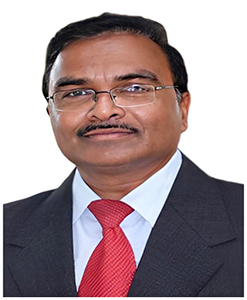
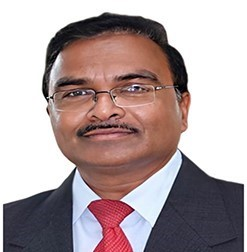
changed team images

diff --git a/patronsadvisors.html b/patronsadvisors.html
@@ -133,91 +133,56 @@
 
 
 
+<section class="bg-gradient-to-r from-blue-200 to-pink-300 max-w-screen-xl mx-auto py-8 px-4 md:px-8 lg:px-16">
+    <h2 class="text-center text-3xl md:text-4xl lg:text-5xl font-bold mb-8">Patrons & Advisors</h2>
 
-
-<!-- ====== Team Section Start -->
-<section     class="bg-gradient-to-r from-blue-200 to-pink-300 max-w-screen-xl mx-auto py-8 px-4 md:px-8 lg:px-16"
->
-<h2 class="text-center text-3xl md:text-4xl lg:text-5xl font-bold mb-8">Patrons & Advisors </h2>
-
-<div class="container mx-auto">
-
-
- 
-
-          <div class="-mx-4 flex flex-wrap justify-center">
-            <div class="w-full px-4 md:w-1/2 xl:w-1/4">
-                <div class="mx-auto mb-10 w-full max-w-[370px]">
-                    <div class="relative overflow-hidden rounded-lg">
-                        <img src="./images/avs prasad.jpg" alt="image" class="w-full" />
-                        
-                    </div>
-                    <div class="text-center mt-3">
-                        <h2 class="text-dark dark:text-white text-base font-semibold">Dr. A.V.S. Prasad
-
-
-
-                        </h2>
-                        <p class="text-body-color dark:text-dark-6 text-xs">Pro Vice-Chancellor, KLEF   </p>
-                    </div>
-
-                </div>
-            </div>
-            <div class="w-full px-4 md:w-1/2 xl:w-1/4">
-                <div class="mx-auto mb-10 w-full max-w-[370px]">
-                    <div class="relative overflow-hidden rounded-lg">
-                        <img src="./images/venkataram.jpg" alt="image" class="w-full" />
-                       
-                    </div>
-                    <div class="text-center mt-3">
-                        <h3 class="text-dark dark:text-white text-base font-semibold">Dr. N. Venkatram
-
-
-
-                        </h3>
-                        <p class="text-body-color dark:text-dark-6 text-xs"> Pro Vice-Chancellor, KLEF  </p>
-                    </div>
-                </div>
-            </div>
-        </div>
+    <div class="container mx-auto">
         <div class="-mx-4 flex flex-wrap justify-center">
             <div class="w-full px-4 md:w-1/2 xl:w-1/4">
                 <div class="mx-auto mb-10 w-full max-w-[370px]">
                     <div class="relative overflow-hidden rounded-lg">
-                        <img src="./images/subba rao.jpg" alt="image" class="w-full" />
-                        
+                        <img src="./images/avs prasad.jpg" alt="image" class="w-full h-auto" style="width: 100%; height: auto;" />
                     </div>
                     <div class="text-center mt-3">
-                        <h2 class="text-dark dark:text-white text-base font-semibold">Dr. K. Subba Rao
-
-
-
-                        </h2>
-                        <p class="text-body-color dark:text-dark-6 text-xs">Registrar, KLEF </p>
+                        <h2 class="text-dark dark:text-white text-base font-semibold">Dr. A.V.S. Prasad</h2>
+                        <p class="text-body-color dark:text-dark-6 text-xs">Pro Vice-Chancellor, KLEF</p>
                     </div>
-
                 </div>
             </div>
-                    <div class="w-full px-4 md:w-1/2 xl:w-1/4">
+            <div class="w-full px-4 md:w-1/2 xl:w-1/4">
                 <div class="mx-auto mb-10 w-full max-w-[370px]">
                     <div class="relative overflow-hidden rounded-lg">
-                        <img src="./images/Jagadeesh.jpeg" alt="image" class="w-full" />
-                       
+                        <img src="./images/venkataram.jpg" alt="image" class="w-full h-auto" style="width: 100%; height: auto;" />
                     </div>
                     <div class="text-center mt-3">
-                        <h3 class="text-dark dark:text-white text-base font-semibold">Dr. A. Jagadeesh,  
-
-
-
-
-
-                        </h3>
-                        <p class="text-body-color dark:text-dark-6 text-xs">CCO & Director–FED,KLEF</p>
+                        <h3 class="text-dark dark:text-white text-base font-semibold">Dr. N. Venkatram</h3>
+                        <p class="text-body-color dark:text-dark-6 text-xs">Pro Vice-Chancellor, KLEF</p>
                     </div>
                 </div>
             </div>
-        </div>
-                
+            <div class="w-full px-4 md:w-1/2 xl:w-1/4">
+                <div class="mx-auto mb-10 w-full max-w-[370px]">
+                    <div class="relative overflow-hidden rounded-lg">
+                        <img src="./images/subba rao.jpg" alt="image" class="w-full h-auto" style="width: 100%; height: auto;" />
+                    </div>
+                    <div class="text-center mt-3">              <h2 class="text-dark dark:text-white text-base font-semibold">Dr. K. Subba Rao</h2>
+                        <p class="text-body-color dark:text-dark-6 text-xs">Registrar, KLEF</p>
+                    </div>
+                </div>
+            </div>
+            <div class="w-full px-4 md:w-1/2 xl:w-1/4">
+                <div class="mx-auto mb-10 w-full max-w-[370px]">
+                    <div class="relative overflow-hidden rounded-lg">
+                        <img src="./images/Jagadeesh.jpeg" alt="image" class="w-full h-auto" style="width: 100%; height: auto;" />
+                    </div>
+                    <div class="text-center mt-3">            
+                        <h3 class="text-dark dark:text-white text-base font-semibold">Dr. A. Jagadeesh</h3>
+                        <p class="text-body-color dark:text-dark-6 text-xs">CCO & Director–FED, KLEF</p>
+                    </div>
+                </div>
+            </div>
+          
+           
     </div>
  </section>
  <!-- ====== Team Section End -->    <!-- ====== Team Section End -->

diff --git a/conveners.html b/conveners.html
@@ -139,6 +139,103 @@
 <section     class="bg-gradient-to-r from-blue-200 to-pink-300 max-w-screen-xl mx-auto py-8 px-4 md:px-8 lg:px-16"
 >
 <h2 class="text-center text-3xl md:text-4xl lg:text-5xl font-bold mb-8">Conveners</h2>
+
+<!-- ====== Team Section Start -->
+<section     class="bg-gradient-to-r from-blue-200 to-pink-300 max-w-screen-xl mx-auto py-8 px-4 md:px-8 lg:px-16"
+>
+    <div class="container mx-auto">
+
+       
+
+       <div class="-mx-4 flex flex-wrap justify-center">
+        <div class="w-full px-4 md:w-1/2 xl:w-1/4">
+            <div class="mx-auto mb-10 w-full max-w-[370px]">
+               <div class="relative overflow-hidden rounded-lg">
+                  <img src="./images/drruthramya.jpg" alt="image" class="w-full" />
+                 
+               </div>
+               <div class="text-center mt-3">
+                <h3 class="text-dark dark:text-white text-base font-semibold">Dr K.Ruth Ramya</h3>
+                <p class="text-body-color dark:text-dark-6 text-xs">Conveners</p>
+            </div>
+
+            </div>
+         </div>
+       </div>   </div>
+          </div>
+
+          <div class="-mx-4 flex flex-wrap justify-center">
+            <div class="w-full px-4 md:w-1/2 xl:w-1/4">
+                <div class="mx-auto mb-10 w-full max-w-[370px]">
+                    <div class="relative overflow-hidden rounded-lg">
+                        <img src="./images/lakshmiprasanna.jfif" alt="image" class="w-full" />
+                       
+                        </div>
+                        <div class="text-center mt-3">
+                            <h3 class="text-dark dark:text-white text-base font-semibold">Dr P. Lakshmi Prasanna</h3>
+                            <p class="text-body-color dark:text-dark-6 text-xs">Conveners</p>
+                        </div>
+    
+                </div>
+            </div>
+            <div class="w-full px-4 md:w-1/2 xl:w-1/4">
+                <div class="mx-auto mb-10 w-full max-w-[370px]">
+                    <div class="relative overflow-hidden rounded-lg">
+                        <img src="./images/priya.png" alt="image" class="w-full" />
+                           
+                        </div>
+                        <div class="text-center mt-3">
+                            <h3 class="text-dark dark:text-white text-base font-semibold">Dr. A. Priya</h3>
+                            <p class="text-body-color dark:text-dark-6 text-xs">Convener</p>
+                        </div>
+               
+                </div>
+            </div>
+            <div class="w-full px-4 md:w-1/2 xl:w-1/4">
+                <div class="mx-auto mb-10 w-full max-w-[370px]">
+                    <div class="relative overflow-hidden rounded-lg">
+                        <img src="./images/dr_k_sony.jfif" alt="image" class="w-full" />
+                       
+
+                    </div>
+                    
+ <div class="text-center mt-3">
+    <h3 class="text-dark dark:text-white text-base font-semibold">Dr .K. Sony</h3>
+    <p class="text-body-color dark:text-dark-6 text-xs">Convener</p>
+</div>
+                </div>
+            </div>
+        </div>
+
+        <div class="-mx-4 flex flex-wrap justify-center">
+            <div class="w-full px-4 md:w-1/2 xl:w-1/4">
+                <div class="mx-auto mb-10 w-full max-w-[370px]">
+                    <div class="relative overflow-hidden rounded-lg">
+                        <img src="./images/shaikmahamuda.jpg" alt="image" class="w-full" />
+                    </div>   
+                        <div class="text-center mt-3">
+                            <h3 class="text-dark dark:text-white text-base font-semibold">Dr. Mahamuda Shaik</h3>
+                            <p class="text-body-color dark:text-dark-6 text-xs">Convener</p>
+                        </div>
+                   
+                </div>
+            </div>
+            <div class="w-full px-4 md:w-1/2 xl:w-1/4">
+                <div class="mx-auto mb-10 w-full max-w-[370px]">
+                    <div class="relative overflow-hidden rounded-lg">
+                        <img src="./images/Dr.lalithasuryakumari.jpg" alt="image" class="w-full" />
+                       
+                    </div>
+                    <div class="text-center mt-3">
+                        <h3 class="text-dark dark:text-white text-base font-semibold">Dr. P. Lalitha Surya Kumari</h3>
+                        <p class="text-body-color dark:text-dark-6 text-xs">Convener</p>
+                    </div>
+                </div>
+            </div>
+        </div>
+
+    </div>
+ </section>
 <div class="overflow-x-auto">
     <table class="table-auto border-double border-black w-full">
         <thead>

diff --git a/about.html b/about.html
@@ -144,7 +144,10 @@
             <br>
             <div>
            <p>The Women Development Cell (WDC) at KLEF promotes gender equality through education, advocacy, and skill-building initiatives. Our mission includes creating a safe environment for women to thrive, offering awareness programs on women's rights, and conducting gender sensitization activities on campus. We strive to address gender discrimination, prevent sexual harassment, and ensure equitable opportunities for all genders within the university community.
-         </p><img src="./images/nirf_ranking.jpg"> 
+         </p><img style="display: block;
+         margin-left: auto;
+         margin-right: auto;
+         width: 50%;" src="./images/KL Ranks.png" > 
             </div>
 </div>
    

diff --git a/index.html b/index.html
@@ -111,7 +111,10 @@
              </div> 
             </div>
          </div>
-         <img src="./images/nirf_ranking.jpg"> 
+        </p><img style="display: block;
+        margin-left: auto;
+        margin-right: auto;
+        width: 50%;" src="./images/KL Ranks.png" > 
 
 <!-- component -->
 
